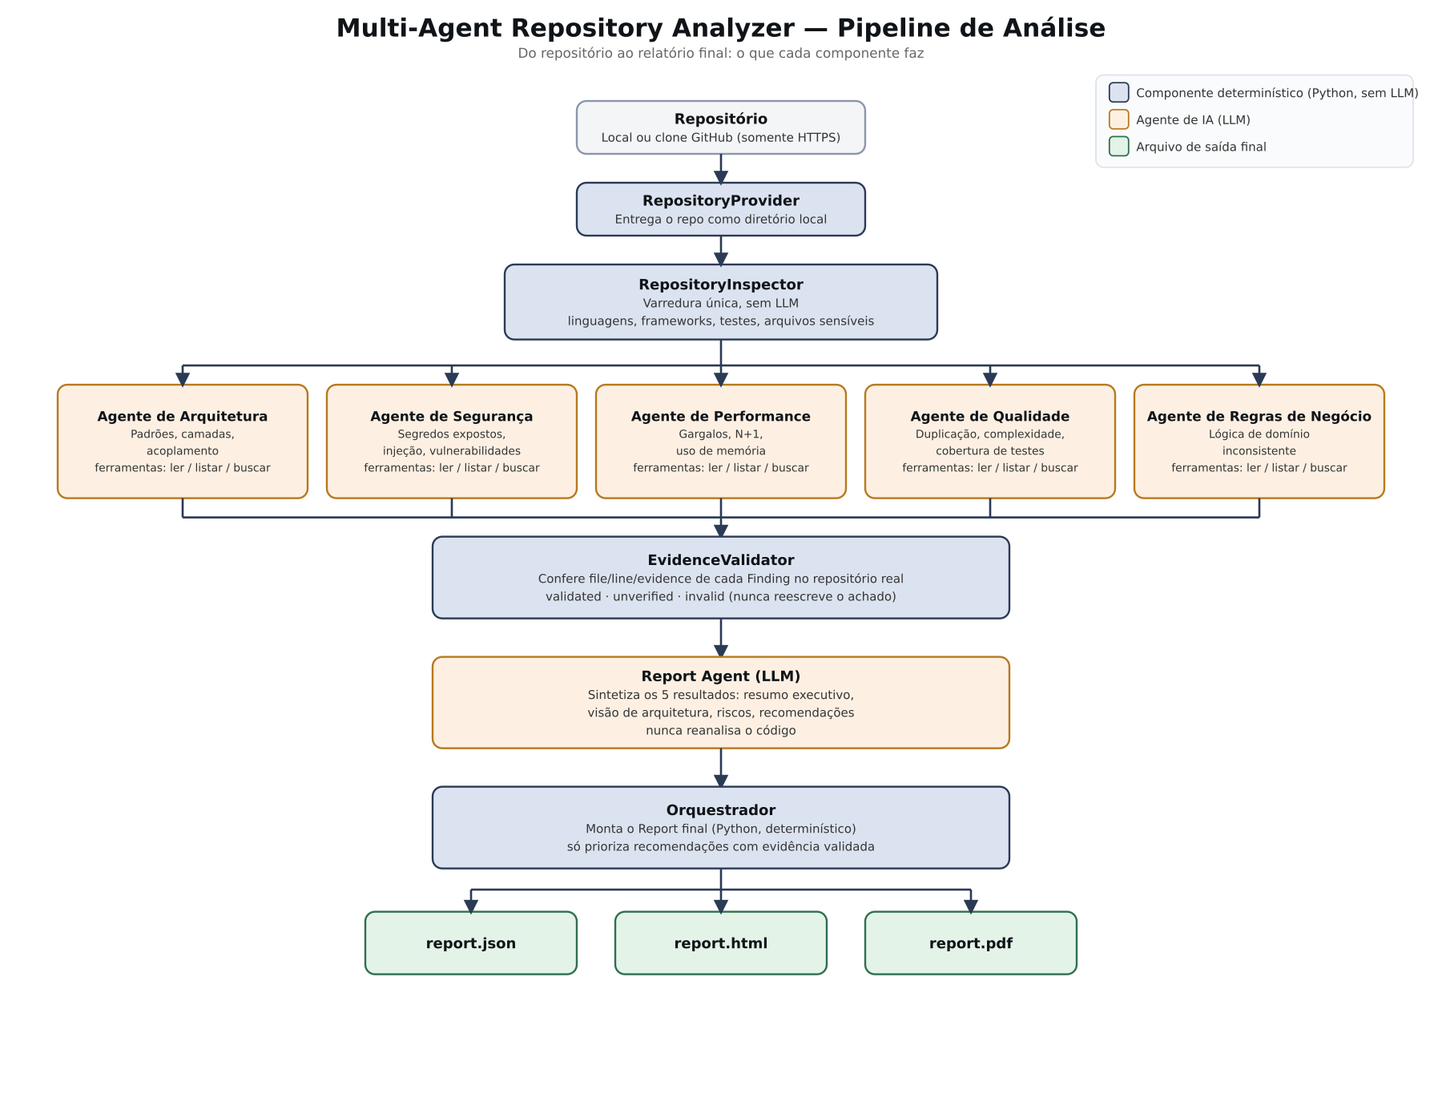
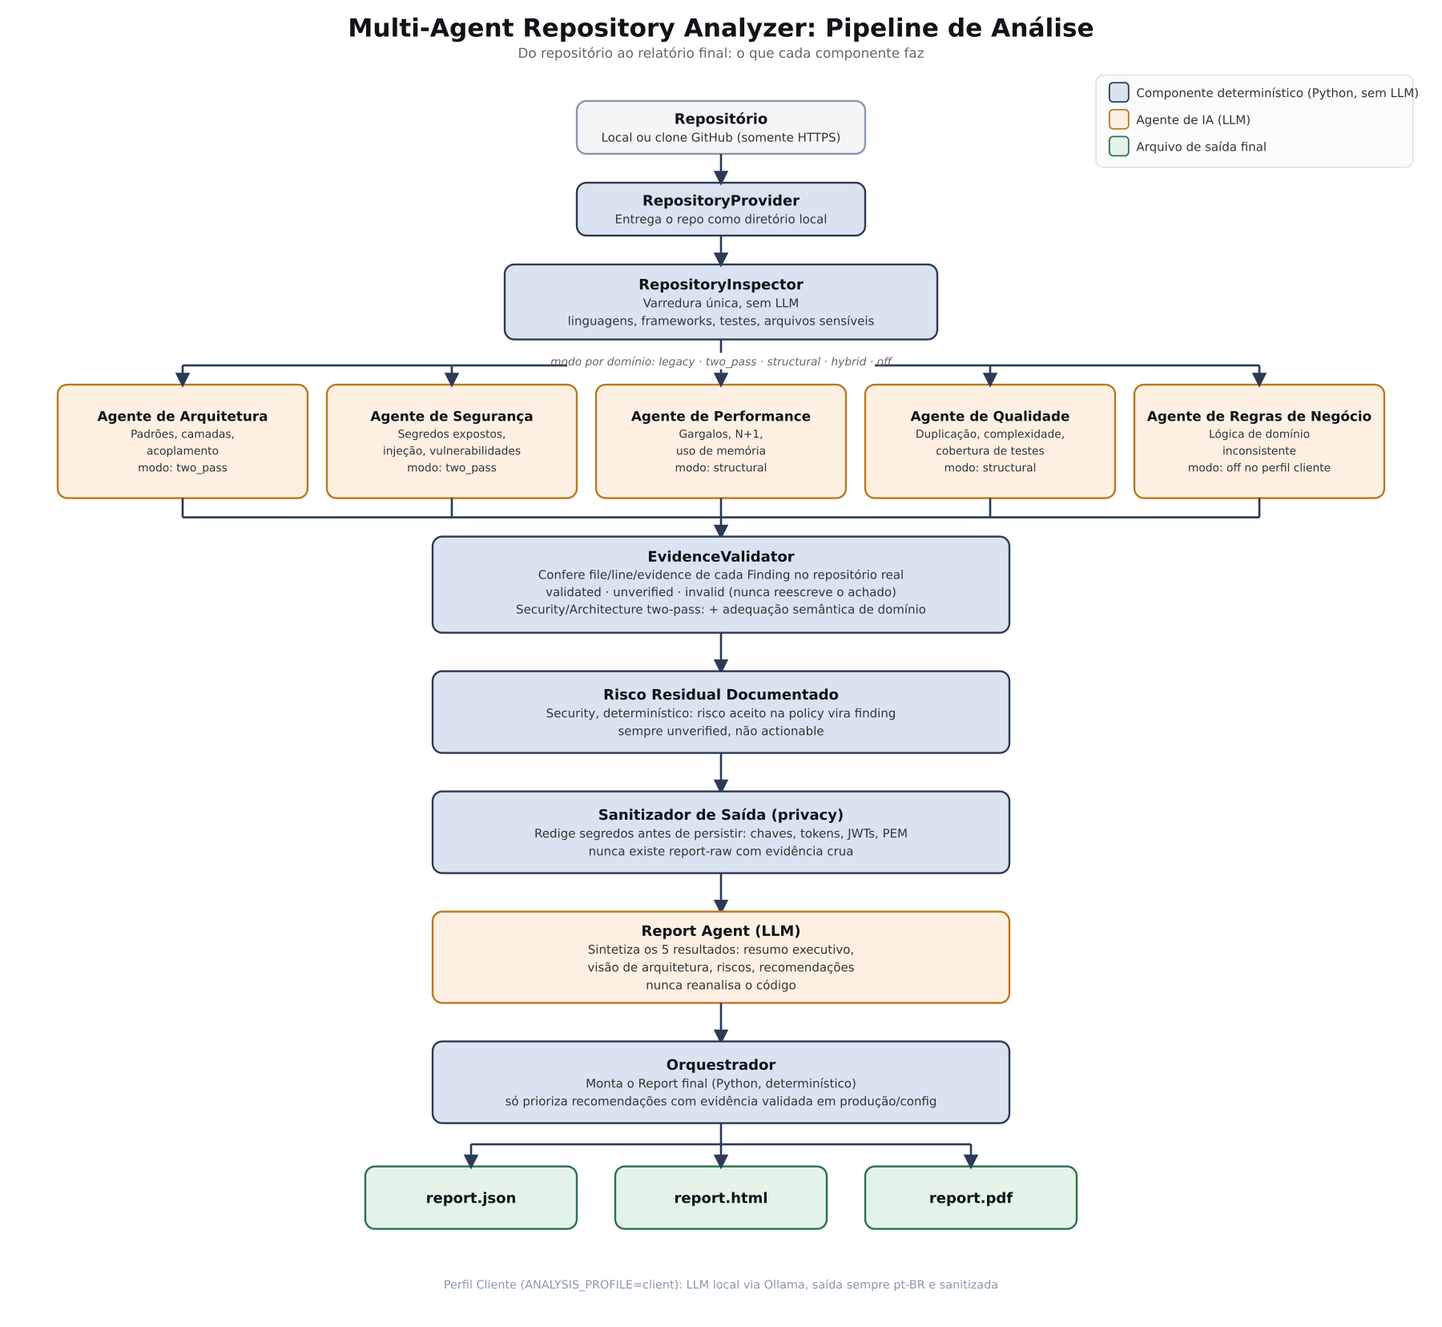
Atualizacao conteudo e audios

diff --git a/README.md b/README.md
@@ -4,6 +4,9 @@ Ferramenta que analisa um repositório Git com **5 agentes de LLM especializados
 segurança, performance, qualidade de código e regras de negócio) e produz um relatório técnico em
 JSON, HTML e PDF. O código do repositório analisado nunca é executado, só lido.
 
+Versão atual: **v0.1.0-pilot**, um piloto assistido. Os relatórios ajudam bastante, mas ainda
+pedem revisão técnica humana antes de qualquer entrega a um cliente final.
+
 ![Visão simplificada do pipeline](assets/visao-simplificada.png)
 
 ---
@@ -36,27 +39,58 @@ Todo achado precisa citar `file`, `line` e um trecho de evidência devolvido por
 repositório. Um `EvidenceValidator` confere essa citação contra o código real e marca o achado como
 `validated`, `unverified` ou `invalid`, sem nunca reescrever o que o agente disse.
 
-### 🔐 Pipeline determinístico para Security (two-pass)
-Modo alternativo ao tool-calling autônomo, pensado para reduzir a "liberdade" que o agente de Security
-tem para decidir sozinho o que investigar: planejamento de queries, recuperação determinística,
-montagem de evidência, geração de achados ancorados nessa evidência, localização e validação.
+### 🔐 Pipeline determinístico two-pass (Security e Architecture)
+Modo alternativo ao tool-calling autônomo, pensado para reduzir a "liberdade" que o agente tem para
+decidir sozinho o que investigar: planejamento de queries, recuperação determinística, montagem de
+evidência, geração de achados ancorados nessa evidência, localização e validação. Security ainda vai
+um passo além: achados validados passam por uma checagem semântica de domínio antes de virar
+prioridade. Architecture roda o mesmo pipeline, mas ainda não tem essa checagem semântica, então um
+achado fisicamente correto nessa categoria fica em `unverified` e não vira prioridade sozinho.
 
-### 🧪 Detectores híbridos de qualidade de código
-Analisadores estruturais determinísticos (função longa, classe grande, retornos excessivos,
-complexidade cognitiva) que podem rodar combinados com o agente de LLM ou sozinhos.
+### 🧪 Detectores estruturais de Performance e Qualidade de Código
+Analisadores determinísticos em PHP (consulta em loop, `all()` sem paginação, função longa, classe
+grande, excesso de retornos, complexidade cognitiva) que podem rodar sozinhos (`structural`) ou
+combinados com o agente de LLM (`hybrid`). O modo `structural` de Performance tem benchmark fechado
+com controles negativos: 5 verdadeiros positivos, 0 falsos positivos, 0 falsos negativos, 12
+verdadeiros negativos, precision e recall em 1.00.
+
+### 🧯 Sanitização de saída e risco residual documentado
+Antes de qualquer artefato ser salvo em disco, um sanitizador determinístico redige segredos que
+porventura tenham vazado para dentro de um achado (chaves de API, tokens do GitHub, JWTs, blocos de
+chave privada). Não existe `report-raw.json`: só o JSON, o HTML e o PDF já sanitizados são
+persistidos. Quando a política de segurança do próprio projeto documenta um risco aceito, isso vira
+um achado determinístico (`documented_residual_risk`), sempre marcado como `unverified` e nunca
+tratado como confirmado.
+
+### 🗂 Classificação de contexto por arquivo
+Cada achado é classificado deterministicamente pelo caminho do arquivo: produção, config, teste,
+fixture, seeder, benchmark, código gerado ou documentação. Achados em contexto auxiliar continuam no
+relatório, mas só produção e config alimentam as Principais Prioridades e os exemplos de risco do
+resumo executivo.
+
+### 🎯 Perfil Cliente para repositórios confidenciais
+`ANALYSIS_PROFILE=client` é um preset fixo para análises em código de cliente: força LLM local via
+Ollama, bloqueia provedores externos, fixa o idioma em pt-BR e trava os modos de cada agente
+(Security e Architecture em `two_pass`, Performance e Qualidade em `structural`, Regras de Negócio
+desligado). Um override que tente enfraquecer essa configuração é rejeitado antes da análise
+começar, não corrigido silenciosamente.
 
 ### 🔌 Múltiplos provedores de LLM
 Ollama (local, sem depender de internet), xAI (Grok) e OpenAI. Troca de provedor é uma variável de
-ambiente, sem misturar configuração de um provedor com outro.
+ambiente, sem misturar configuração de um provedor com outro. O Perfil Cliente trava isso em Ollama.
 
-### 📊 Benchmark contra referência curada
-O relatório pode ser comparado a uma referência real exportada de um scanner externo (SonarQube). É
-uma medida de recall, não uma prova de que o analyzer é melhor ou pior que a ferramenta de referência.
+### 📊 Benchmark contra referência curada, parcial ou fechada
+Contra uma referência parcial (exportada de um scanner externo como o SonarQube), o benchmark mede
+cobertura e recall confirmado, sem calcular precision. Contra uma referência fechada, onde todo o
+universo de casos foi adjudicado, o benchmark calcula precision, recall e F1 de verdade, com
+matching determinístico (domínio, arquivo exato, linha com tolerância), sem embeddings e sem
+LLM-as-judge.
 
 ### 📄 Relatório em 3 formatos
 JSON estruturado, HTML navegável e PDF (via WeasyPrint), com painel executivo, gráficos por
 severidade e categoria, fluxograma do que rodou naquela análise e a lista de achados com badges de
-severidade e status de evidência.
+severidade e status de evidência. O percentual de achados validados aparece com uma nota explícita de
+que essa métrica mede grounding mecânico da evidência, não precision.
 
 ## 🧠 Diferenciais técnicos
 
@@ -67,6 +101,9 @@ severidade e status de evidência.
   conteúdo deles nunca é lido nem chega perto de uma LLM.
 - O Report Agent não reanalisa o código. Ele só organiza achados que os outros 5 agentes já
   produziram, e só achados `validated` entram no resumo executivo e nas prioridades.
+- "Validado" não é sinônimo de "precision". Um achado `validated` teve a evidência conferida
+  mecanicamente contra o repositório; isso é diferente de comprovar que o problema realmente existe
+  contra um gabarito adjudicado. O relatório é explícito sobre essa diferença, e não só no rodapé.
 - Dá pra reexecutar só a etapa de síntese a partir de um `report.json` salvo (`--report-only`), sem
   pagar de novo pelas chamadas de LLM dos 5 agentes se só o Report Agent falhou ou travou.
 - Cada análise tem um `analysis_id` próprio e logs estruturados por agente (duração, achados, erros),
@@ -85,8 +122,9 @@ severidade e status de evidência.
 | Acesso a Git | GitPython |
 | Templates de relatório | Jinja2 |
 | Geração de PDF | WeasyPrint |
+| LLM local (Perfil Cliente) | Ollama, modelo homologado `llama3.1:latest` |
 | Execução | Docker Compose |
-| Testes | pytest (800+ testes, mocks para LLM e clone Git) |
+| Testes | pytest (mais de 1200 testes, mocks para LLM e clone Git) |
 
 Documentação técnica completa (pipeline, agentes, validação de evidência) em
 [`docs/arquitetura.md`](docs/arquitetura.md). O design de segurança tem um documento próprio em
@@ -97,10 +135,11 @@ Documentação técnica completa (pipeline, agentes, validação de evidência) 
 1. A análise aponta para um repositório local (montado somente leitura) ou uma URL pública/privada do GitHub.
 2. O `RepositoryProvider` entrega o repositório como um diretório local. Nem o inspector nem os agentes sabem de onde ele veio.
 3. O `RepositoryInspector` varre o repositório uma vez, sem LLM, e monta o contexto que todos os agentes vão compartilhar.
-4. Os 5 agentes especializados analisam esse contexto, cada um com 3 tools somente-leitura.
-5. O `EvidenceValidator` reconfere cada achado contra o código real.
-6. O Report Agent sintetiza os achados validados em resumo executivo, riscos e recomendações.
-7. O resultado é gravado em `report.json`, `report.html` e `report.pdf`.
+4. Os 5 agentes especializados analisam esse contexto, cada um no modo configurado para aquele domínio (`legacy`, `two_pass`, `structural`, `hybrid` ou `off`).
+5. O `EvidenceValidator` reconfere cada achado contra o código real, e Security/Architecture ainda passam por uma checagem semântica adicional.
+6. Um sanitizador determinístico redige qualquer segredo que tenha vazado para dentro de um achado, antes de qualquer coisa ser persistida.
+7. O Report Agent sintetiza os achados já validados e sanitizados em resumo executivo, riscos e recomendações.
+8. O resultado é gravado em `report.json`, `report.html` e `report.pdf`.
 
 ## 📸 Demonstração
 
@@ -120,13 +159,22 @@ As camadas de proteção contra prompt injection e vazamento de credenciais:
 
 ![Camadas de segurança](assets/seguranca-camadas.png)
 
-O painel de um relatório real, gerado analisando uma aplicação Laravel em produção:
+O painel de um relatório real, gerado com o Perfil Cliente contra uma aplicação Laravel em produção:
 
 ![Painel do relatório gerado](assets/relatorio-painel.png)
 
-Achados individuais, com severidade, status de evidência e a localização exata no código:
+Achados individuais, com severidade, status de evidência, o código responsável e a localização exata:
 
 ![Achados no relatório gerado](assets/relatorio-achados.png)
+
+## 🎧 Em áudio
+
+Falei sobre auditoria de código com IA e evidência validada nestas duas faixas:
+
+- 🎙 [IA na Auditoria de Código: Segurança e Evidências](https://soundcloud.com/jean-carlos-charao-sabino/ia-auditoria-codigo-seguranca)
+- 🎙 [A IA pode auditar seu código. Desde que prove cada achado.](https://soundcloud.com/jean-carlos-charao-sabino/auditoria-de-codigo-com-ia)
+
+Perfil completo no SoundCloud: https://soundcloud.com/jean-carlos-charao-sabino
 
 ## 🔒 Código-fonte
 
@@ -142,21 +190,28 @@ https://jeancarlos.com.br
 
 - A inspeção do repositório roda uma única vez, sem LLM, e o resultado é compartilhado por todos os
   agentes. Evita 5 varreduras redundantes e mantém o contexto consistente entre domínios.
-- O modo `two_pass` de Security não faz fallback silencioso para o modo legado se algo falhar. O erro
-  fica registrado e a execução segue com o que foi produzido (ou vazio) naquele domínio. Prefiro um
-  buraco visível a um resultado que parece completo e não é.
+- Os modos `two_pass` e `structural` não fazem fallback silencioso para o modo legado se algo falhar.
+  O erro fica registrado e a execução segue com o que foi produzido (ou vazio) naquele domínio.
+  Prefiro um buraco visível a um resultado que parece completo e não é.
+- Architecture ganhou o mesmo pipeline `two_pass` de Security, mas de propósito sem a checagem
+  semântica de domínio ainda. Um achado fisicamente correto ali não vira prioridade sozinho, porque
+  "a citação bate" e "o problema é real nesse contexto" são coisas diferentes.
+- O Perfil Cliente existe porque configuração espalhada em variáveis de ambiente é fácil de esquecer
+  numa análise sensível. É um preset travado, não um novo modo de operação: rejeita overrides que
+  enfraqueçam a configuração em vez de tentar corrigir silenciosamente.
 - O relatório final é montado deterministicamente em Python. Uma recomendação só vira "prioridade" se
-  estiver ancorada em evidência `validated`, nunca por decisão da LLM.
+  estiver ancorada em evidência `validated` em código de produção ou config, nunca por decisão da LLM.
 - Os 5 agentes ainda rodam sequencialmente, mas a estrutura já é orientada a dados para migrar para
   execução concorrente sem mexer na assinatura de nenhum agente.
-- O benchmark contra SonarQube usa matching determinístico (domínio + arquivo exato + linha com
-  tolerância), de propósito sem embeddings ou LLM-as-judge, para que a métrica continue auditável.
+- O benchmark fechado usa matching determinístico (domínio + arquivo exato + linha com tolerância), de
+  propósito sem embeddings ou LLM-as-judge, para que precision e recall continuem auditáveis.
 
 ## 🚧 Status
 
-Em evolução contínua. O foco agora é reduzir a dependência de tool-calling autônomo nos agentes que
-ainda usam o modo legacy (hoje só Security tem alternativa determinística) e paralelizar a execução
-dos agentes.
+Versão v0.1.0-pilot, pensada para piloto assistido, não para análise autônoma sem revisão humana.
+O foco agora é levar a checagem semântica de domínio para Architecture, seguir reduzindo a
+dependência de tool-calling autônomo nos agentes que ainda usam o modo legacy e paralelizar a
+execução dos 5 agentes.
 
 ---
 

diff --git a/docs/arquitetura.md b/docs/arquitetura.md
@@ -2,6 +2,29 @@
 
 Como o pipeline funciona por dentro. Para a visão geral do produto, veja o [README](../README.md).
 
+## Pipeline conceitual (estado atual)
+
+```
+RepositoryProvider → Inspector
+  → agentes por modo (legacy / two_pass / structural / hybrid / off)
+  → EvidenceValidator (+ checagem semântica no Security two-pass)
+  → risco residual documentado (Security, determinístico)
+  → sanitizador de saída (privacy)
+  → Report Agent (síntese)
+  → Report público → JSON / HTML / PDF
+```
+
+**Security `two_pass`:** Pass A planeja as queries, um retrieval determinístico busca a evidência,
+uma etapa de política confere cobertura, Pass C gera achados ancorados nessa evidência, depois vêm
+localização, `EvidenceValidator`, checagem semântica de domínio, o extrator de risco residual
+documentado e, por fim, o merge com descarte de conflito.
+
+**Architecture `two_pass`:** roda o mesmo pipeline compartilhado, mas ainda sem a checagem semântica
+de domínio. Achados fisicamente corretos ficam em `unverified` e não entram como prioridade sozinhos.
+
+**Performance e Qualidade de Código `structural`:** detectores PHP determinísticos, sem LLM
+nenhuma envolvida.
+
 ## Visão em 3 passos
 
 ![Visão simplificada](../assets/visao-simplificada.png)
@@ -27,43 +50,52 @@ arquivo de saída.
    models/controllers/routes/services/tests, Dockerfiles, arquivos de CI/CD e os caminhos (nunca o
    conteúdo) de arquivos sensíveis como `.env`, `*.pem`, `id_rsa*`.
 
-3. Os 5 agentes especializados leem esse mesmo contexto:
+3. Os 5 agentes especializados leem esse mesmo contexto, cada um num modo configurável por domínio:
 
    ![Os 5 agentes especializados](../assets/agentes-grade.png)
 
-   Architecture, Performance, Code Quality e Business Rules usam hoje o modo legacy: um agente CrewAI
-   com tool-calling autônomo e 3 ferramentas somente-leitura (`read_repository_file`,
-   `list_repository_files`, `search_repository`).
+   | Agente | Modos | Notas |
+   |---|---|---|
+   | Security | `legacy` / `two_pass` | `two_pass`: Pass A → retrieval → cobertura da política → Pass C → localização → `EvidenceValidator` → checagem semântica → risco residual documentado |
+   | Architecture | `legacy` / `two_pass` | mesmo pipeline `two_pass` compartilhado, sem checagem semântica ainda; achados ficam `unverified`, não actionable |
+   | Performance | `legacy` / `hybrid` / `structural` | `structural`: detectores PHP determinísticos (consulta em loop, `all()` sem paginação) |
+   | Qualidade de Código | `legacy` / `hybrid` / `structural` | `structural`: função longa, classe grande, retornos excessivos, complexidade cognitiva |
+   | Regras de Negócio | `legacy` / `off` | achados são hipóteses; `off` não executa o agente, o que é diferente de "rodou e achou zero" |
 
-   Security tem dois modos, controlados por `SECURITY_ANALYSIS_MODE`. O padrão, `legacy`, é o mesmo
-   modelo dos outros agentes. O modo `two_pass` troca o tool-calling autônomo por um pipeline em
-   etapas fixas: Pass A planeja as queries de busca, um retrieval determinístico as executa (sem o
-   agente decidindo sozinho o que buscar), a evidência recuperada vira registros estruturados, Pass C
-   gera achados ancorados nesses registros, e por fim vem a localização de `file`/`line`/`evidence` e
-   o `EvidenceValidator`. Se o two-pass falhar em algum ponto, não há fallback silencioso para o modo
-   legacy.
-
-   Code Quality tem um terceiro modo além de legacy: `hybrid` (detectores estruturais
-   determinísticos combinados com o agente de LLM, o padrão) ou `structural` (só os detectores, sem
-   LLM nenhuma).
+   O modo `legacy` é o mesmo modelo em todo agente: um agente CrewAI com tool-calling autônomo e 3
+   ferramentas somente-leitura (`read_repository_file`, `list_repository_files`,
+   `search_repository`). Nos modos `two_pass` e `structural`, se algo falhar no meio do caminho, não
+   há fallback silencioso para o legacy: o erro fica registrado.
 
 4. O `EvidenceValidator` reconfere mecanicamente o `file`/`line`/`evidence` de cada achado contra o
-   repositório real, marcando `validated`, `unverified` ou `invalid`, sem nunca reescrever o achado:
+   repositório real, marcando `validated`, `unverified` ou `invalid`, sem nunca reescrever o achado.
+   Nos domínios Security e Architecture em modo `two_pass`, um achado `validated` ainda passa por uma
+   checagem semântica de domínio; só em Security essa checagem participa da decisão de virar
+   prioridade:
 
    ![Como uma evidência é validada](../assets/validacao-evidencia.png)
 
-5. O Report Agent só sintetiza achados que já foram produzidos (resumo executivo, riscos,
-   recomendações); ele não reanalisa o código. Só achados `validated` entram na síntese executiva.
-   Os `unverified` aparecem à parte, em "Pontos para Investigação".
+5. Em Security, um extrator determinístico varre a política de segurança do próprio projeto em busca
+   de risco residual aceito ou conhecido. Quando encontra, gera um achado `documented_residual_risk`,
+   sempre `unverified` e nunca actionable, porque documentação é evidência secundária.
 
-6. O `Report` final é montado deterministicamente em Python. Uma recomendação só vira "prioridade" se
-   estiver ancorada em evidência `validated`.
+6. Um sanitizador de saída (`privacy`) redige segredos que tenham vazado para dentro de um achado
+   (chaves de API, tokens do GitHub, JWTs, blocos de chave privada) antes de qualquer artefato ser
+   persistido. Não existe `report-raw.json`: só versões já sanitizadas chegam ao disco.
+
+7. O Report Agent só sintetiza achados que já foram produzidos, validados e sanitizados (resumo
+   executivo, riscos, recomendações); ele não reanalisa o código. Só achados `validated` em contexto
+   de produção ou config entram na síntese executiva. Os `unverified` aparecem à parte, em "Pontos
+   para Investigação".
+
+8. O `Report` final é montado deterministicamente em Python. Uma recomendação só vira "prioridade" se
+   estiver ancorada em evidência `validated` em produção/config.
 
 ## Saída
 
-Cada execução grava `report.json`, `report.html` e `report.pdf` em `reports/<analysis_id>/`. O
-`report.json` também guarda, por agente, `analysis_mode_by_agent` (`legacy`/`two_pass`) e
-`two_pass_by_agent` com a telemetria de cada etapa: duração, outcome, contagem de achados.
+Cada execução grava `report.json`, `report.html` e `report.pdf` em `reports/<analysis_id>/`, sempre
+já sanitizados. O `report.json` também guarda, por agente, `analysis_mode_by_agent` e a telemetria de
+cada etapa do `two_pass` (duração, outcome, contagem de achados).
 
 ## Reexecução parcial
 
@@ -71,13 +103,25 @@ Cada execução grava `report.json`, `report.html` e `report.pdf` em `reports/<a
 casos em que apenas a síntese falhou ou expirou, sem precisar pagar de novo pelas chamadas de LLM dos
 5 agentes especializados.
 
+## Perfil Cliente
+
+`ANALYSIS_PROFILE=client` é um preset fixo para análises em repositórios confidenciais: LLM local via
+Ollama (bloqueia provedores externos), `pt-BR`, Security/Architecture em `two_pass`, Performance e
+Qualidade em `structural`, Regras de Negócio desligado. Um override que tente enfraquecer essa
+configuração falha antes da análise começar, sem correção silenciosa. Se o repositório vier de um
+clone GitHub, o clone participa da obtenção do código; a garantia é que o conteúdo analisado não é
+enviado a provedores de LLM externos, não que "nada sai da máquina".
+
 ## Benchmark
 
-O analyzer pode ser comparado a uma referência parcial e curada, exportada de um scanner externo
-(hoje, SonarQube num projeto real). Não é ground truth absoluto: a referência lista casos conhecidos
-para medir recall, não o universo de todos os achados possíveis. Cada finding da referência carrega
-uma adjudicação humana (`confirmed`, `contextual` ou `rejected`). O matching é determinístico:
-domínio compatível, `file` exatamente igual, `line` dentro de uma tolerância, sem embeddings e sem
+O analyzer pode ser comparado a dois tipos de referência. Uma referência parcial e curada, exportada
+de um scanner externo (hoje, SonarQube num projeto real), não é ground truth absoluto: lista casos
+conhecidos para medir cobertura e recall confirmado, sem calcular precision, já que achados fora da
+lista não viram falso positivo automaticamente. Uma referência fechada, onde todo o universo de casos
+positivos e negativos foi adjudicado, permite calcular precision, recall e F1 de verdade: hoje o
+benchmark fechado de Performance estrutural roda com 5 verdadeiros positivos, 0 falsos positivos, 0
+falsos negativos e 12 verdadeiros negativos. Em ambos os casos, o matching é determinístico (domínio
+compatível, `file` exatamente igual, `line` dentro de uma tolerância), sem embeddings e sem
 LLM-as-judge.
 
 ## Limitações conhecidas
@@ -85,9 +129,14 @@ LLM-as-judge.
 - Só análise estática. Nenhuma execução do código do repositório analisado.
 - A confiabilidade da saída depende da LLM usada; modelos locais menores às vezes falham em produzir
   saída interpretável ou não usam as tools de forma confiável em tarefas mais complexas.
+- Architecture ainda não tem checagem semântica de domínio; achados dessa categoria ficam
+  `unverified` e não entram como prioridade sozinhos.
+- Regras de Negócio continua desligado no Perfil Cliente; quando ligado, os achados são hipóteses.
 - Detecção de framework e linguagem é heurística (convenções de nome de arquivo/caminho), não um
   parser completo.
 - Os 5 agentes ainda rodam sequencialmente, mas o código já é orientado a dados o suficiente para
   migrar para execução concorrente sem mexer na assinatura de chamada de nenhum agente.
 - `REPORT_LANGUAGE` traduz só os rótulos fixos do template. O conteúdo gerado pela LLM sai no idioma
   em que o modelo decidir responder.
+- Relatórios exigem revisão humana antes de qualquer entrega externa; esta é uma versão de piloto
+  assistido, não de análise autônoma.
